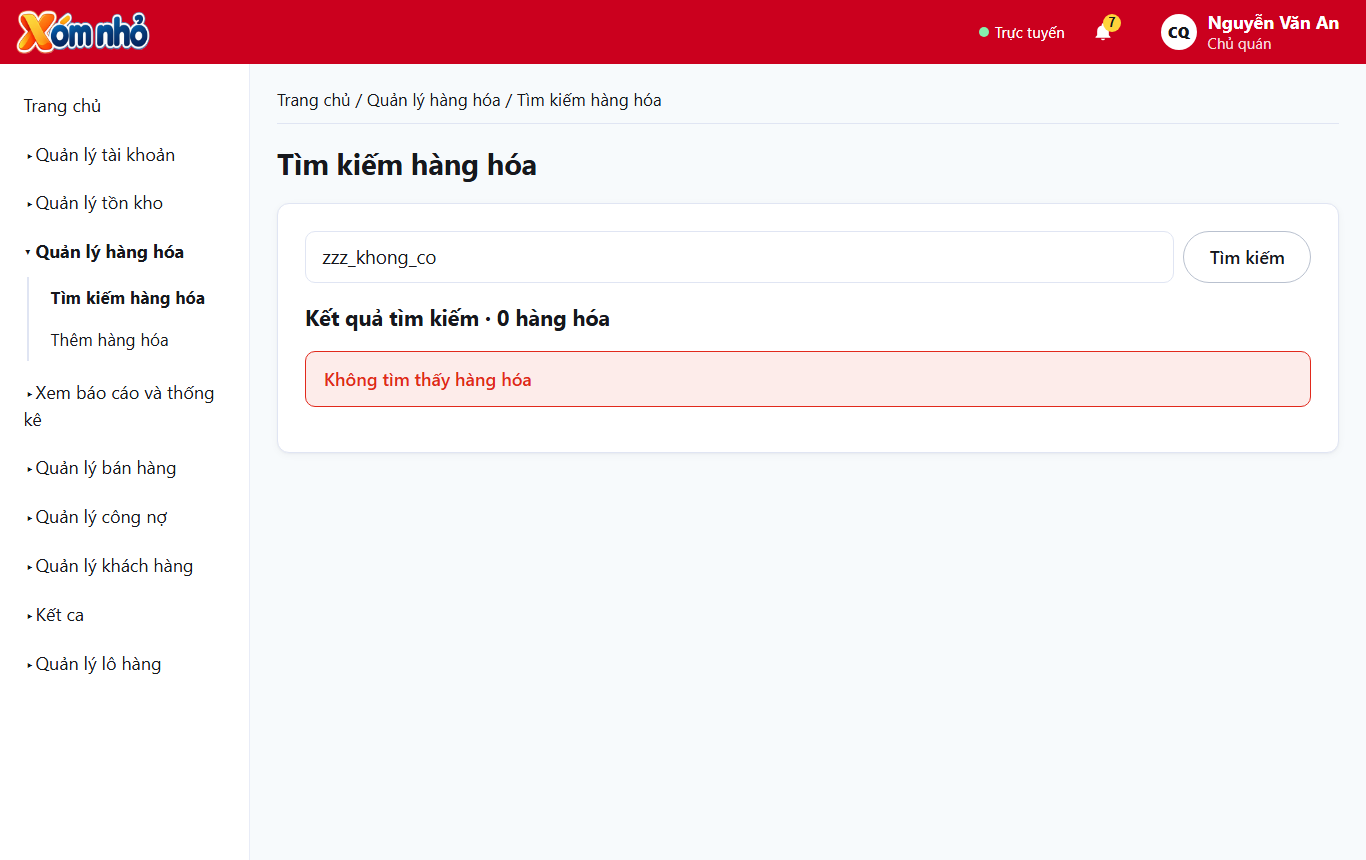
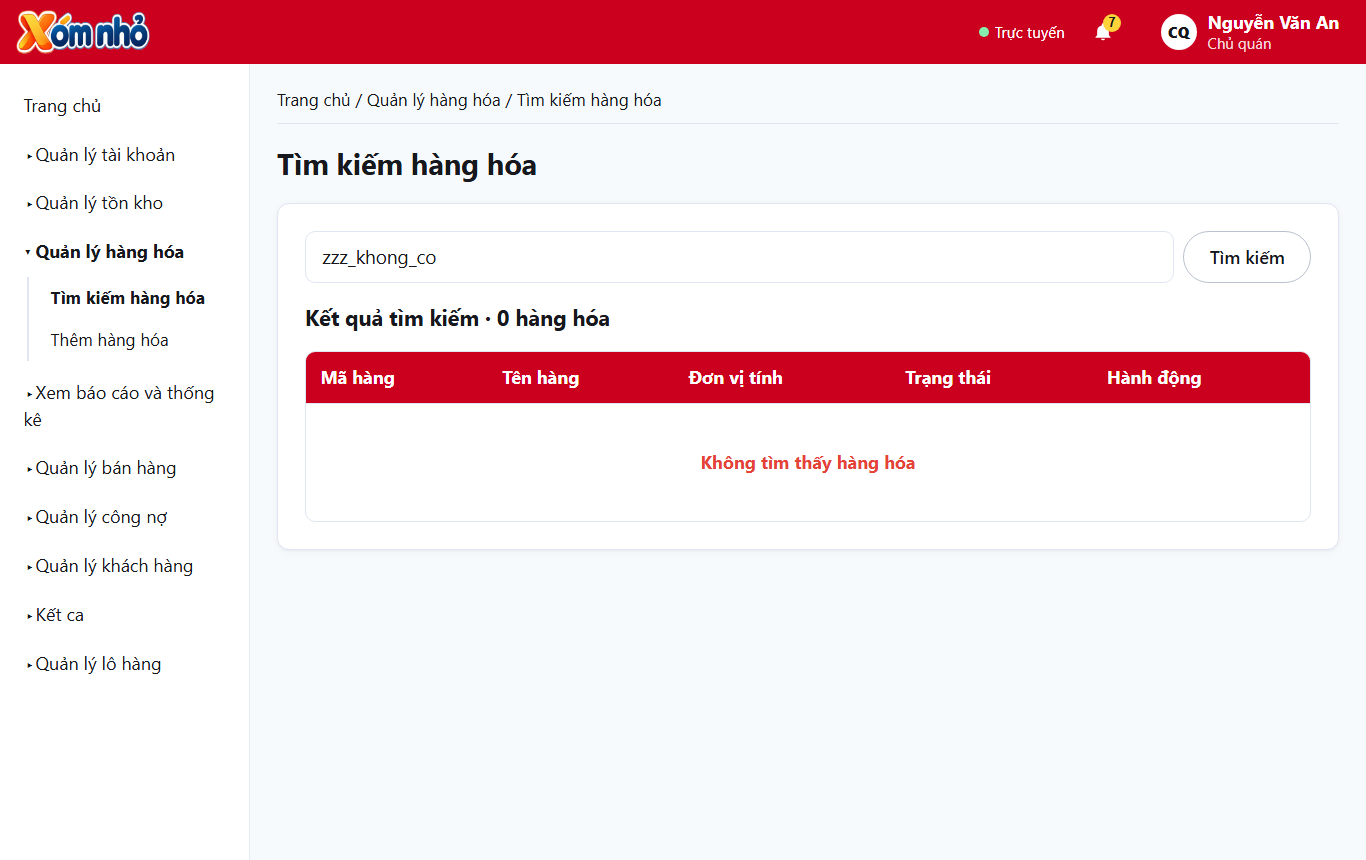
Giao diện: mọi danh sách rỗng giữ nguyên khung bảng, thông báo căn giữa trong bảng (theo mẫu 8.3)
Lịch sử bán hàng, tìm hóa đơn (đổi trả / hủy), duyệt phiếu đổi trả, tìm khách quen, hóa đơn nợ của khách quen, thu nợ (danh sách khách và hóa đơn nợ), tìm kiếm hàng hóa, báo cáo tồn kho, lô hàng, nhân viên. 14 TC giao diện đạt.

Changed region(s): [[0.2152, 0.393, 0.9839, 0.4837], [0.4919, 0.514, 0.6764, 0.5442]]

diff --git a/frontend/src/pages/congNo/ThuNo.tsx b/frontend/src/pages/congNo/ThuNo.tsx
@@ -65,13 +65,8 @@ function TimKhachCoNo({ onChon }: { onChon: (maKH: string) => void }) {
           </form>
         </div>
         {loi && <p className="thong-bao thong-bao--do">{loi}</p>}
-        {data && !loi && data.length === 0 && (
-          <p className="thong-bao thong-bao--do canh-giua">
-            {tuKhoa ? 'Không tìm thấy khách hàng có công nợ!' : 'Hiện không có khách hàng nào còn công nợ.'}
-          </p>
-        )}
         {data && !loi && <h2 className="tieu-de-bang">{tuKhoa ? 'Kết quả tìm kiếm' : 'Danh sách khách có công nợ'} · {data.length} khách hàng</h2>}
-        {data && !loi && data.length > 0 && (
+        {data && !loi && (
           <div className={`bang-cuon ${isFetching ? 'dang-tai-mo' : ''}`}>
             <table className="bang">
               <thead>
@@ -85,6 +80,13 @@ function TimKhachCoNo({ onChon }: { onChon: (maKH: string) => void }) {
                 </tr>
               </thead>
               <tbody>
+                {data.length === 0 && (
+                  <tr>
+                    <td colSpan={6} className="chu-do o-bang-trong">
+                      {tuKhoa ? 'Không tìm thấy khách hàng có công nợ!' : 'Hiện không có khách hàng nào còn công nợ.'}
+                    </td>
+                  </tr>
+                )}
                 {dsTrang.map((k: KhachQuenDong) => (
                   <tr key={k.maKH}>
                     <td>{k.maKH}</td>
@@ -380,9 +382,6 @@ function ThanhToanNo({ maKH, onDoiKhach }: { maKH: string; onDoiKhach: () => voi
       <div className="pos">
         <section className="the pos__hang">
           <h2>Hóa đơn nợ chưa thanh toán</h2>
-          {ds.length === 0 ? (
-            <p className="thong-bao thong-bao--do">Khách hàng không còn hóa đơn nợ chưa thanh toán.</p>
-          ) : (
             <>
               <p className="ghi-chu">Thanh toán nguyên hóa đơn, theo thứ tự từ hóa đơn nợ cũ nhất.</p>
               <div className="bang-cuon">
@@ -397,6 +396,13 @@ function ThanhToanNo({ maKH, onDoiKhach }: { maKH: string; onDoiKhach: () => voi
                     </tr>
                   </thead>
                   <tbody>
+                    {ds.length === 0 && (
+                      <tr>
+                        <td colSpan={5} className="chu-do o-bang-trong">
+                          Khách hàng không còn hóa đơn nợ chưa thanh toán.
+                        </td>
+                      </tr>
+                    )}
                     {trangHD.dsTrang.map((h, j) => {
                       const i = trangHD.batDau + j // vị trí trong toàn bộ danh sách (chọn theo thứ tự cũ nhất)
                       return (
@@ -425,7 +431,6 @@ function ThanhToanNo({ maKH, onDoiKhach }: { maKH: string; onDoiKhach: () => voi
               </div>
               {trangHD.phanTrang}
             </>
-          )}
         </section>
 
         <aside className="the pos__gio">

diff --git a/frontend/src/pages/congNo/CongNo.tsx b/frontend/src/pages/congNo/CongNo.tsx
@@ -91,11 +91,6 @@ export function TimKiemKhachQuen() {
             <h2 className="tieu-de-bang">
               {tuKhoa || trangThai ? 'Kết quả tìm kiếm' : 'Danh sách khách quen'} · {data.length} khách quen{trangThai ? ` · ${trangThai}` : ''}
             </h2>
-            {data.length === 0 ? (
-              <p className="thong-bao thong-bao--do">
-                {tuKhoa || trangThai ? 'Không tìm thấy thông tin khách quen phù hợp!' : 'Hiện chưa có khách quen nào.'}
-              </p>
-            ) : (
               <div className={`bang-cuon ${isFetching ? 'dang-tai-mo' : ''}`}>
                 <table className="bang">
                   <thead>
@@ -107,6 +102,13 @@ export function TimKiemKhachQuen() {
                     </tr>
                   </thead>
                   <tbody>
+                    {data.length === 0 && (
+                      <tr>
+                        <td colSpan={4} className="chu-do o-bang-trong">
+                          {tuKhoa || trangThai ? 'Không tìm thấy thông tin khách quen phù hợp!' : 'Hiện chưa có khách quen nào.'}
+                        </td>
+                      </tr>
+                    )}
                     {dsTrang.map((k) => (
                       <tr key={k.maKH}>
                         <td>
@@ -128,7 +130,6 @@ export function TimKiemKhachQuen() {
                   </tbody>
                 </table>
               </div>
-            )}
             {phanTrang}
           </>
         )}
@@ -195,9 +196,6 @@ export function ChiTietKhachQuenTrang() {
         </dl>
 
         <h2>Hóa đơn nợ chưa thanh toán</h2>
-        {data.hoaDonChuaTra.length === 0 ? (
-          <p className="ghi-chu">Khách quen không có hóa đơn nợ chưa thanh toán.</p>
-        ) : (
           <div className="bang-cuon">
             <table className="bang">
               <thead>
@@ -208,6 +206,13 @@ export function ChiTietKhachQuenTrang() {
                 </tr>
               </thead>
               <tbody>
+                {data.hoaDonChuaTra.length === 0 && (
+                  <tr>
+                    <td colSpan={3} className="chu-do o-bang-trong">
+                      Khách quen không có hóa đơn nợ chưa thanh toán.
+                    </td>
+                  </tr>
+                )}
                 {hdNo.dsTrang.map((h) => (
                   <tr key={h.maHD}>
                     <td>{h.maHD}</td>
@@ -219,7 +224,6 @@ export function ChiTietKhachQuenTrang() {
             </table>
             {hdNo.phanTrang}
           </div>
-        )}
 
         <div className="hang-nut">
           <button type="button" className="nut" onClick={() => navigate('/quan-ly-cong-no/tim-kiem')}>

diff --git a/frontend/src/components/TimHoaDon.tsx b/frontend/src/components/TimHoaDon.tsx
@@ -80,9 +80,7 @@ export function TimHoaDon({ tieuDe, thongBaoRong, onXem }: Props) {
             <h2 className="tieu-de-bang">
               {tuKhoa ? 'Kết quả tìm kiếm' : 'Danh sách hóa đơn'} · {data.tongSo} hóa đơn
             </h2>
-            {data.tongSo === 0 ? (
-              <p className="thong-bao thong-bao--do">{tuKhoa ? thongBaoRong : 'Chưa có hóa đơn nào.'}</p>
-            ) : (
+            {/* Mẫu khách hàng 8.3: không có kết quả vẫn giữ khung bảng, thông báo căn giữa trong bảng. */}
               <div className={`bang-cuon ${isFetching ? 'dang-tai-mo' : ''}`}>
                 <table className="bang">
                   <thead>
@@ -96,6 +94,13 @@ export function TimHoaDon({ tieuDe, thongBaoRong, onXem }: Props) {
                     </tr>
                   </thead>
                   <tbody>
+                    {data.tongSo === 0 && (
+                      <tr>
+                        <td colSpan={6} className="chu-do o-bang-trong">
+                          {tuKhoa ? thongBaoRong : 'Chưa có hóa đơn nào.'}
+                        </td>
+                      </tr>
+                    )}
                     {data.danhSach.map((h) => (
                       <tr key={h.maHD}>
                         <td>{h.maHD}</td>
@@ -115,7 +120,6 @@ export function TimHoaDon({ tieuDe, thongBaoRong, onXem }: Props) {
                   </tbody>
                 </table>
               </div>
-            )}
             <PhanTrang
               trang={data.trang}
               soTrang={data.soTrang}

diff --git a/frontend/src/pages/banHang/LichSuBanHang.tsx b/frontend/src/pages/banHang/LichSuBanHang.tsx
@@ -100,9 +100,7 @@ export function LichSuBanHang() {
           <h2>
             {hienTim ? 'Kết quả tìm kiếm' : 'Tất cả hóa đơn'} · {ds.tongSo} hóa đơn
           </h2>
-          {ds.tongSo === 0 ? (
-            <p className="chu-do canh-giua o-trong-the">{hienTim ? 'Không tìm thấy hóa đơn phù hợp.' : 'Chưa có hóa đơn nào.'}</p>
-          ) : (
+          {/* Mẫu khách hàng 8.3: không có kết quả vẫn giữ khung bảng, thông báo căn giữa trong bảng. */}
             <div className={`bang-cuon ${isFetching ? 'dang-tai-mo' : ''}`}>
               <table className="bang">
                 <thead>
@@ -116,6 +114,13 @@ export function LichSuBanHang() {
                   </tr>
                 </thead>
                 <tbody>
+                  {ds.tongSo === 0 && (
+                    <tr>
+                      <td colSpan={6} className="chu-do o-bang-trong">
+                        {hienTim ? 'Không tìm thấy hóa đơn phù hợp.' : 'Chưa có hóa đơn nào.'}
+                      </td>
+                    </tr>
+                  )}
                   {ds.danhSach.map((h) => (
                     <tr key={h.maHD}>
                       <td>{h.maHD}</td>
@@ -139,7 +144,6 @@ export function LichSuBanHang() {
                 </tbody>
               </table>
             </div>
-          )}
           <PhanTrang
             trang={ds.trang}
             soTrang={ds.soTrang}

diff --git a/frontend/src/pages/baoCao/BaoCao.tsx b/frontend/src/pages/baoCao/BaoCao.tsx
@@ -509,12 +509,8 @@ export function BaoCaoTonKhoTrang() {
         </div>
       </section>
       {(loi.chung ?? loi.truong.trangThai) && <KhongCoDuLieu thongBao={loi.chung ?? loi.truong.trangThai} />}
-      {data && data.dong.length === 0 && (
-        <section className="the the--rong">
-          <p className="thong-bao thong-bao--do khung-do">Không có sản phẩm phù hợp!</p>
-        </section>
-      )}
-      {data && data.dong.length > 0 && (
+      {/* Không có dữ liệu vẫn giữ khung bảng, thông báo căn giữa trong bảng (như mẫu 8.3). */}
+      {data && (
         <section className="the the--rong">
           <div className="bang-cuon">
             <table className="bang bang--xen-ke">
@@ -529,6 +525,13 @@ export function BaoCaoTonKhoTrang() {
                 </tr>
               </thead>
               <tbody>
+                {data.dong.length === 0 && (
+                  <tr>
+                    <td colSpan={6} className="chu-do o-bang-trong">
+                      Không có sản phẩm phù hợp!
+                    </td>
+                  </tr>
+                )}
                 {trang.dsTrang.map((d) => (
                   <tr key={d.maLo}>
                     <td>{d.maLo}</td>

diff --git a/frontend/src/pages/banHang/PhieuDoiTra.tsx b/frontend/src/pages/banHang/PhieuDoiTra.tsx
@@ -361,9 +361,6 @@ export function DuyetDoiTraDanhSach() {
             <h2 className="tieu-de-bang">
               Danh sách phiếu {trangThai.toLowerCase()} · {data.length} phiếu
             </h2>
-            {data.length === 0 ? (
-              <p className="ghi-chu">Không có phiếu nào.</p>
-            ) : (
               <div className={`bang-cuon ${isFetching ? 'dang-tai-mo' : ''}`}>
                 <table className="bang">
                   <thead>
@@ -378,6 +375,13 @@ export function DuyetDoiTraDanhSach() {
                     </tr>
                   </thead>
                   <tbody>
+                    {data.length === 0 && (
+                      <tr>
+                        <td colSpan={7} className="chu-do o-bang-trong">
+                          Không có phiếu nào.
+                        </td>
+                      </tr>
+                    )}
                     {dsTrang.map((p) => (
                       <tr key={p.maPDT}>
                         <td>{p.maPDT}</td>
@@ -404,7 +408,6 @@ export function DuyetDoiTraDanhSach() {
                   </tbody>
                 </table>
               </div>
-            )}
             {phanTrang}
           </>
         )}

diff --git a/frontend/src/pages/hangHoa/TimKiemHangHoa.tsx b/frontend/src/pages/hangHoa/TimKiemHangHoa.tsx
@@ -47,10 +47,8 @@ export function TimKiemHangHoa() {
             {tuKhoa ? 'Kết quả tìm kiếm' : 'Danh sách hàng hóa'} · {data.tongSo} hàng hóa
           </h2>
         )}
-        {data && data.tongSo === 0 && (
-          <p className="khung-loi">{tuKhoa ? 'Không tìm thấy hàng hóa' : 'Chưa có hàng hóa nào.'}</p>
-        )}
-        {data && data.tongSo > 0 && (
+        {/* Không có dữ liệu vẫn giữ khung bảng, thông báo căn giữa trong bảng (như mẫu 8.3). */}
+        {data && (
           <div className={`bang-cuon ${isFetching ? 'dang-tai-mo' : ''}`}>
             <table className="bang">
               <thead>
@@ -63,6 +61,13 @@ export function TimKiemHangHoa() {
                 </tr>
               </thead>
               <tbody>
+                {data.tongSo === 0 && (
+                  <tr>
+                    <td colSpan={5} className="chu-do o-bang-trong">
+                      {tuKhoa ? 'Không tìm thấy hàng hóa' : 'Chưa có hàng hóa nào.'}
+                    </td>
+                  </tr>
+                )}
                 {data.danhSach.map((h) => (
                   <tr key={h.maHH}>
                     <td>{h.maHH}</td>

diff --git a/frontend/src/pages/nhanVien/DanhSachNhanVien.tsx b/frontend/src/pages/nhanVien/DanhSachNhanVien.tsx
@@ -66,8 +66,8 @@ export function DanhSachNhanVien() {
 
         {isLoading && <p className="ghi-chu">Đang tải…</p>}
         {error && <p className="thong-bao thong-bao--do">{(error as Error).message}</p>}
-        {data && data.length === 0 && <p className="thong-bao thong-bao--do">Chưa có nhân viên nào</p>}
-        {data && data.length > 0 && (
+        {/* Không có dữ liệu vẫn giữ khung bảng, thông báo căn giữa trong bảng (như mẫu 8.3). */}
+        {data && (
           <div className="bang-cuon">
             <table className="bang bang--xen-ke bang--gon">
               <thead>
@@ -80,6 +80,13 @@ export function DanhSachNhanVien() {
                 </tr>
               </thead>
               <tbody>
+                {data.length === 0 && (
+                  <tr>
+                    <td colSpan={5} className="chu-do o-bang-trong">
+                      Chưa có nhân viên nào
+                    </td>
+                  </tr>
+                )}
                 {dsTrang.map((nv) => (
                   <tr key={nv.maND}>
                     <td>{nv.hoTen}</td>

diff --git a/frontend/src/pages/loHang/LoHang.tsx b/frontend/src/pages/loHang/LoHang.tsx
@@ -29,8 +29,8 @@ export function DanhSachLoHang() {
           </Link>
         </div>
         {data && <h2 className="tieu-de-bang">Danh sách lô hàng · {data.tongSo} lô hàng</h2>}
-        {data && data.tongSo === 0 && <p className="ghi-chu">Chưa có lô hàng nào.</p>}
-        {data && data.tongSo > 0 && (
+        {/* Không có dữ liệu vẫn giữ khung bảng, thông báo căn giữa trong bảng (như mẫu 8.3). */}
+        {data && (
           <div className={`bang-cuon ${isFetching ? 'dang-tai-mo' : ''}`}>
             <table className="bang">
               <thead>
@@ -42,6 +42,13 @@ export function DanhSachLoHang() {
                 </tr>
               </thead>
               <tbody>
+                {data.tongSo === 0 && (
+                  <tr>
+                    <td colSpan={4} className="chu-do o-bang-trong">
+                      Chưa có lô hàng nào.
+                    </td>
+                  </tr>
+                )}
                 {data.danhSach.map((l) => (
                   <tr key={l.maLo}>
                     <td>{l.maLo}</td>
